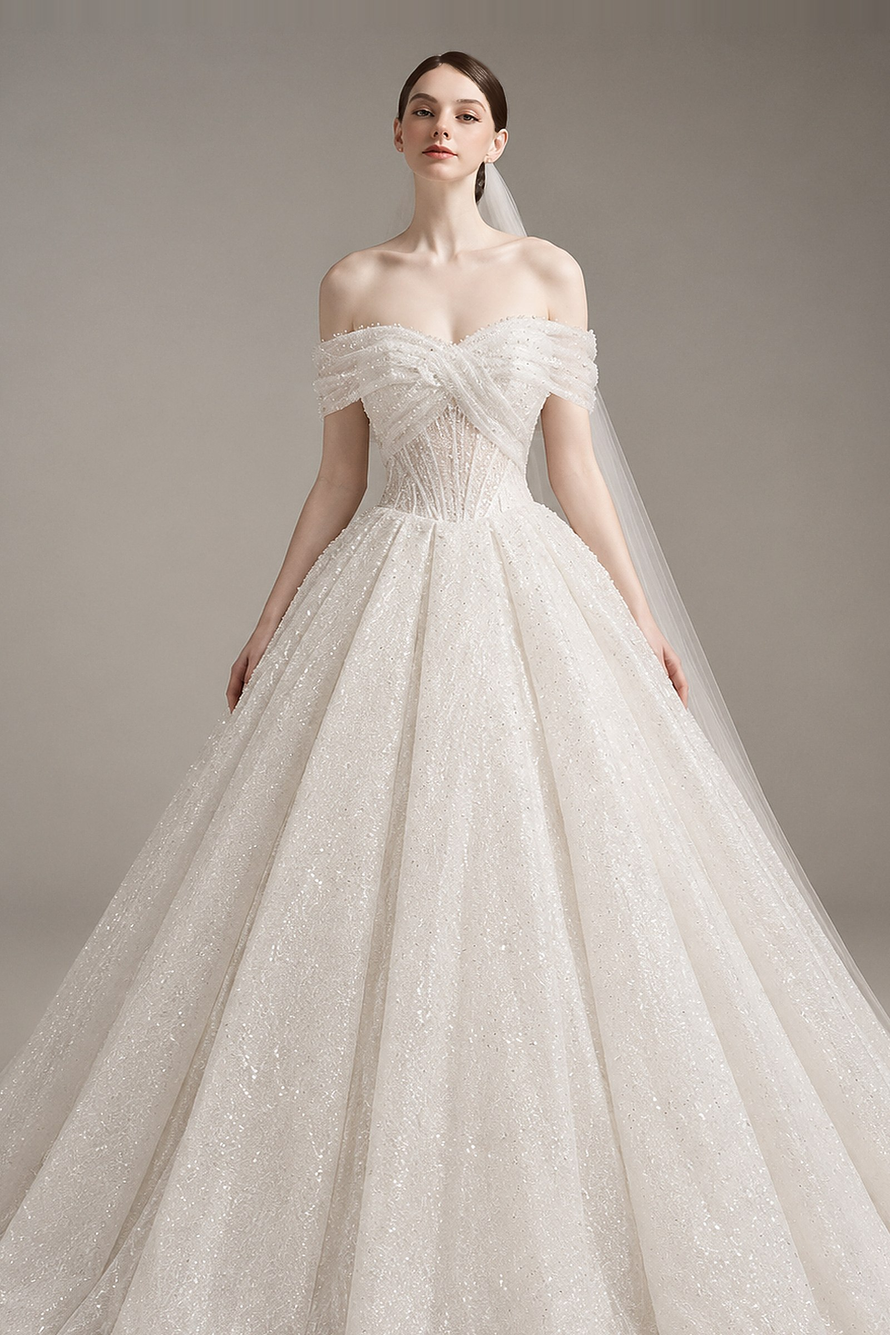
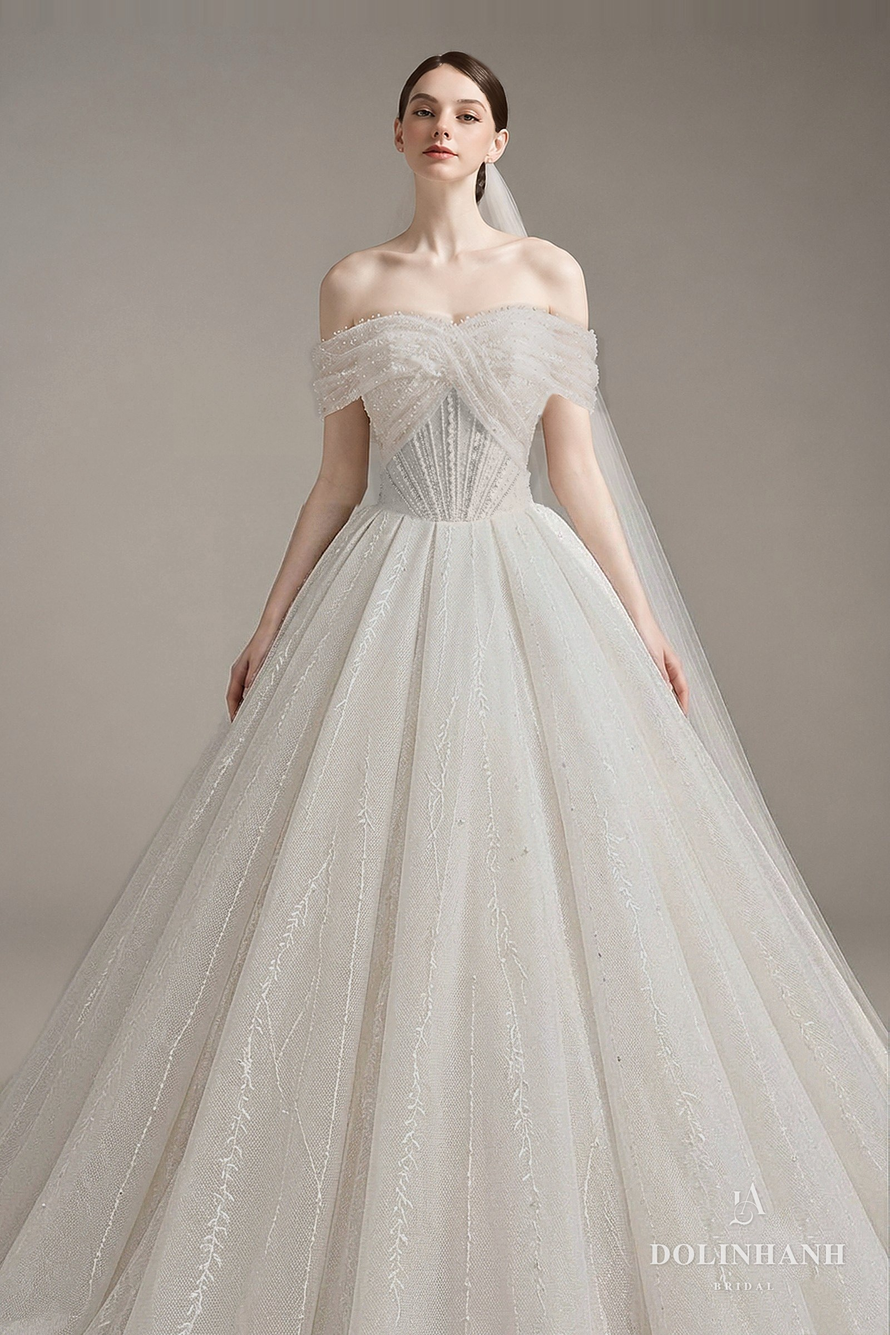
V187: MS 207: fan corset, higher neckline, embroidered net skirt

Changed region(s): [[0.0, 0.2188, 1.0, 1.0], [0.5312, 0.125, 0.5625, 0.1562]]

diff --git a/bo-suu-tap.html b/bo-suu-tap.html
@@ -1809,7 +1809,7 @@ src="https://www.facebook.com/tr?id=1358640082651240&ev=PageView&noscript=1"
         </figure>
         <figure data-dang="ballgown" data-mood="romantic" data-coso="hcm">
           <div class="sl-khung">
-            <div class="sl" data-img="anh/vay/ms207/01.jpg"></div>
+            <div class="sl" data-img="anh/vay/ms207/01.jpg?v=0511"></div>
           </div>
           <figcaption><span class="kind" data-en="Dolinhanh Bridal" data-zh="Dolinhanh Bridal">Dolinhanh Bridal</span><span class="nm">MS 207</span><span class="de" data-en="Soft floral lace, volume" data-zh="柔美花朵蕾丝，丰盈廓形">Ren hoa mềm, tùng bồng</span><span class="gia">US$1,880</span></figcaption>
         </figure>
